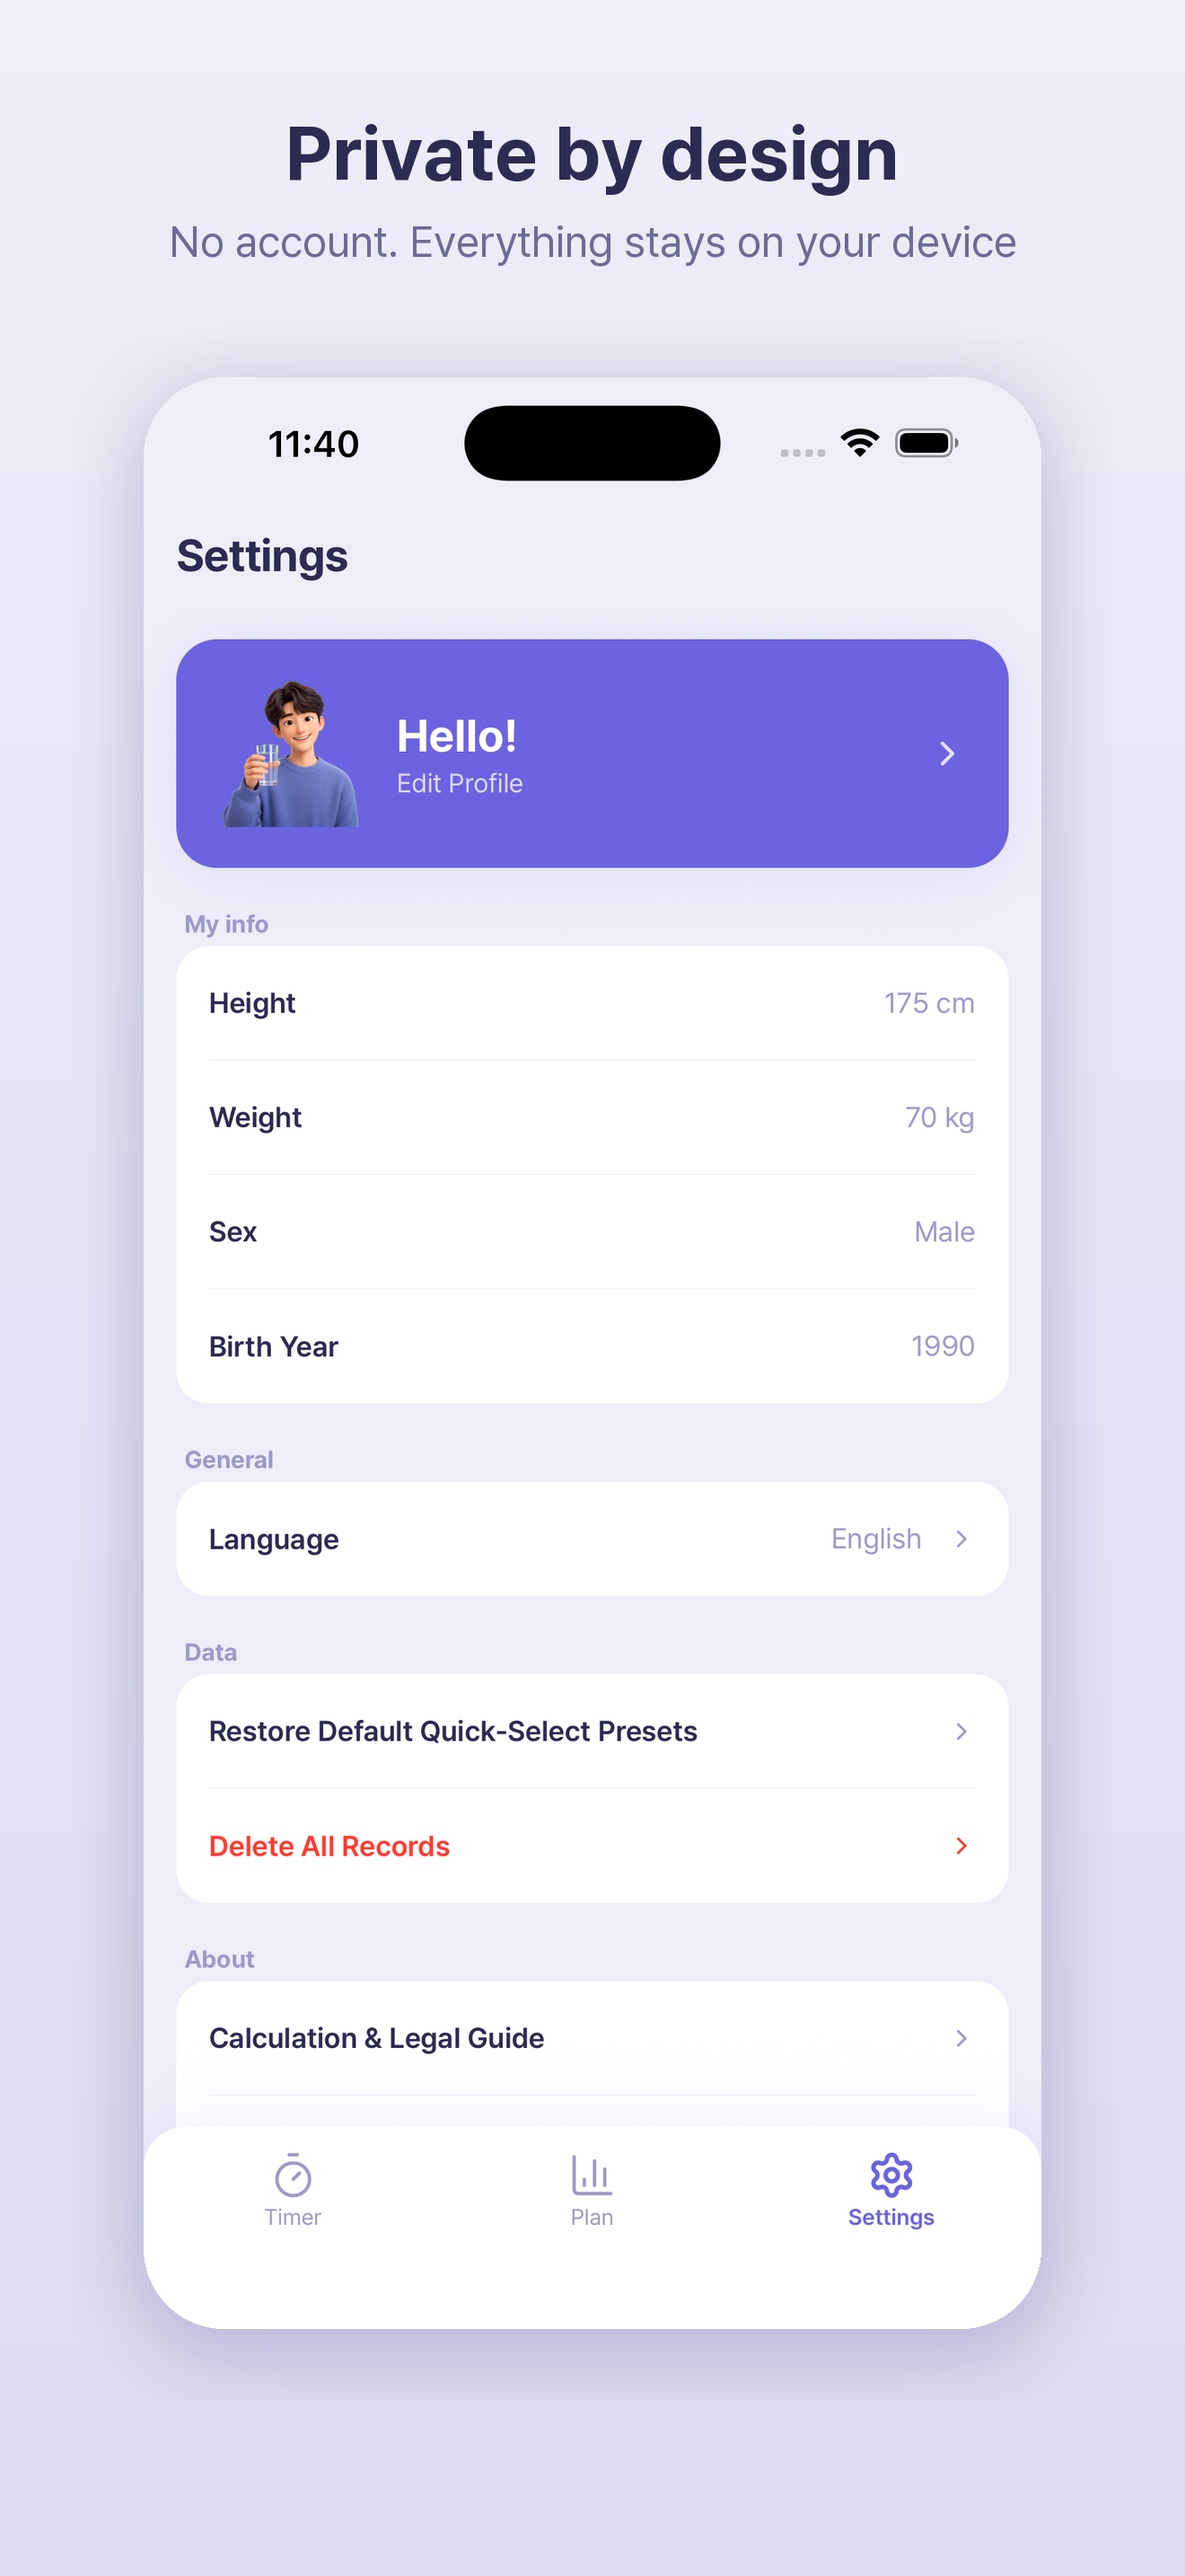
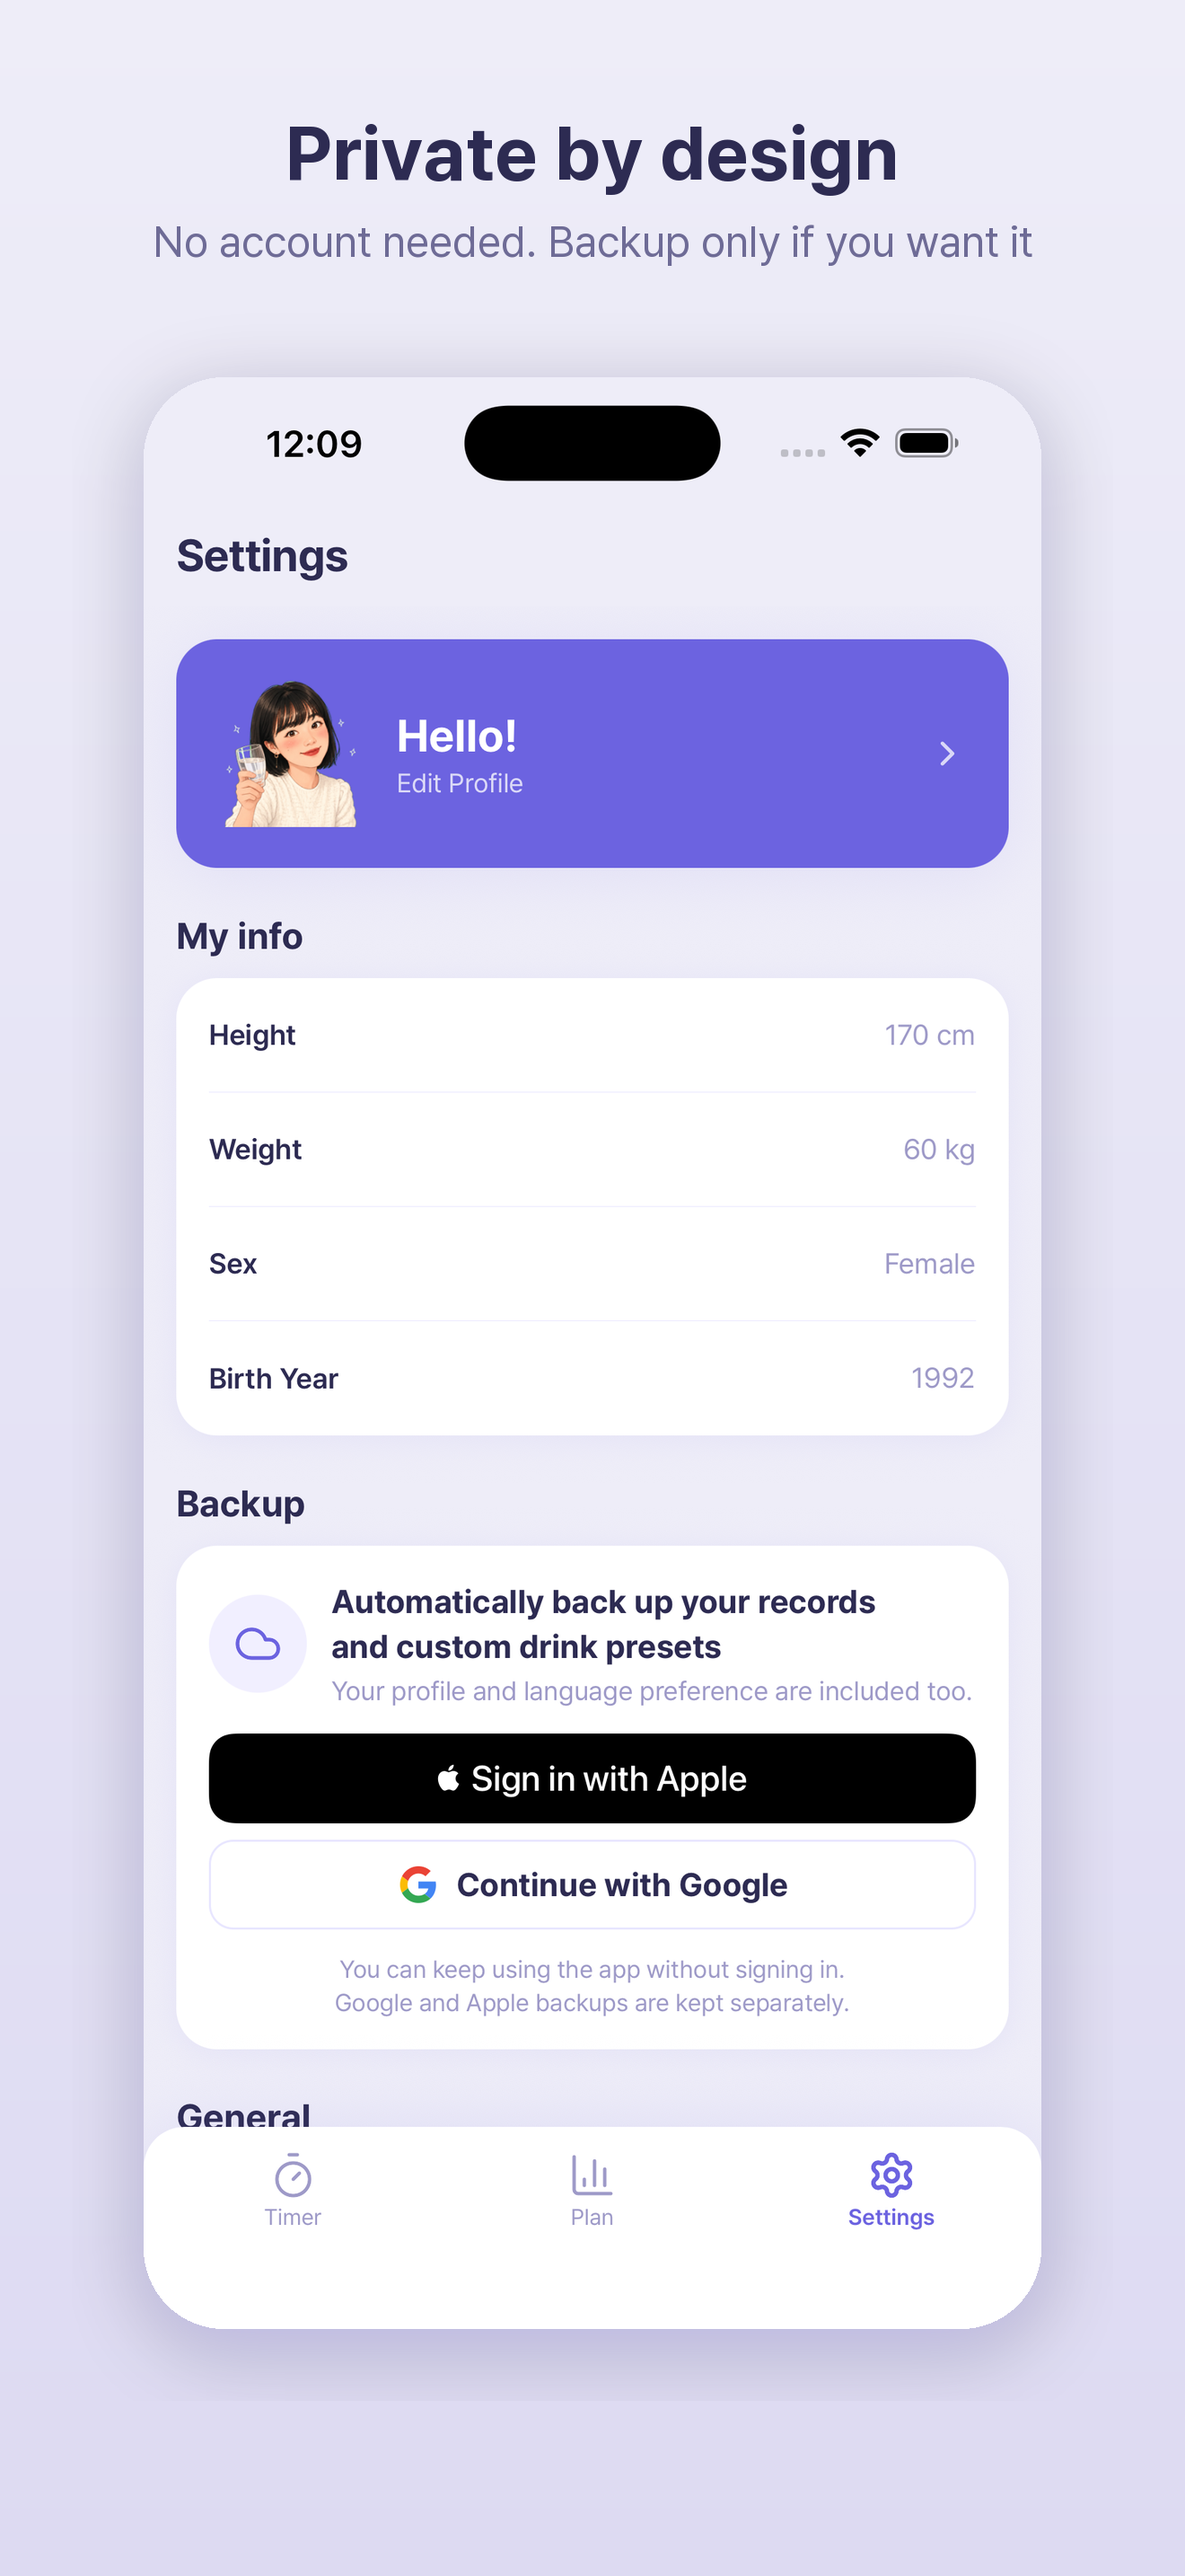
App Store 스크린샷 1.3.0 — iPad 13인치 세트 추가(compose ipad13 타깃), 설정 화면·캡션을 백업 섹션 반영으로 교체

diff --git a/store/compose_screenshots_ios.py b/store/compose_screenshots_ios.py
@@ -1,11 +1,13 @@
 #!/usr/bin/env python3
-"""App Store 스크린샷 합성 — 헤드라인 + 서브 + 둥근 기기 프레임 (6.9인치, 1320×2868).
+"""App Store 스크린샷 합성 — 헤드라인 + 서브 + 둥근 기기 프레임 (6.9인치 1320×2868 / iPad 13인치 2064×2752).
 
 사용법:
-  python3 store/compose_screenshots_ios.py ko   # store/raw/ios/ko/NN-*.png → store/screenshots/ios/ko/
+  python3 store/compose_screenshots_ios.py ko          # store/raw/ios/ko/NN-*.png → store/screenshots/ios/ko/
   python3 store/compose_screenshots_ios.py en
+  python3 store/compose_screenshots_ios.py ko ipad13   # store/raw/ios/ipad13/ → store/screenshots/ios/ipad13/ (ko 캡션)
 
-원본 캡처는 iPhone 17 Pro Max 시뮬레이터(1320×2868, `xcrun simctl io <udid> screenshot`).
+원본 캡처는 iPhone 17 Pro Max 시뮬레이터(1320×2868, `xcrun simctl io <udid> screenshot`),
+iPad 는 iPad Pro 13-inch 시뮬레이터(2064×2752). iPad 원본 폴더는 언어와 무관하게 `raw/ios/ipad13/` 하나다.
 Play 판(`compose_screenshots.py`)과 같은 스타일이고 크기·캡션(05 = Live Activity)만 다르다.
 캡처는 Metro 를 `EXPO_PUBLIC_HIDE_ADS=1` 로 띄워 배너 없이 찍는다(디버그 빌드는 테스트 광고가 뜬다).
 """
@@ -17,12 +19,14 @@ from PIL import Image, ImageDraw, ImageFilter, ImageFont
 
 ROOT = os.path.dirname(os.path.abspath(__file__))
 FONT_DIR = os.path.join(ROOT, '..', 'assets', 'fonts')
-W, H = 1320, 2868
+# 기기별 캔버스: (W, H, FRAME_W, FRAME_Y, RADIUS, 헤드라인 크기, 서브 크기)
+DEVICES = {
+    'iphone': (1320, 2868, 1000, 420, 90, 84, 48),
+    'ipad13': (2064, 2752, 1560, 480, 60, 110, 60),
+}
+W, H, FRAME_W, FRAME_Y, RADIUS, HEAD_PT, SUB_PT = DEVICES['iphone']
 NAVY = (45, 43, 82)
 SUB = (110, 107, 150)
-FRAME_W = 1000            # 기기 프레임 폭
-FRAME_Y = 420
-RADIUS = 90               # iPhone 화면 모서리 (1320 폭 기준)
 HOME_BAR_PX = 0           # iOS 는 홈 인디케이터를 잘라내지 않는다 (배경과 어우러짐)
 
 CAPTIONS = {
@@ -32,7 +36,7 @@ CAPTIONS = {
         '03': ('한 번의 탭으로 기록', '맥주·소주·와인·하이볼, 그리고 나만의 술'),
         '04': ('지난 술자리 다시 보기', '최고 농도·총 섭취량·그래프까지'),
         '05': ('앱을 켜지 않아도', '잠금화면과 다이내믹 아일랜드에서 카운트다운'),
-        '06': ('개인정보를 수집하지 않습니다', '회원가입 없음, 기록은 기기 안에만'),
+        '06': ('개인정보를 수집하지 않습니다', '회원가입 없이 사용, 백업은 원할 때만'),
     },
     'en': {
         '01': ("Time until you're sober", 'Calculated for your height, weight and sex'),
@@ -40,7 +44,7 @@ CAPTIONS = {
         '03': ('Log a drink in one tap', 'Beer, wine, whisky, cocktails — or your own'),
         '04': ('Look back on past nights', 'Peak BAC, total alcohol and the graph'),
         '05': ('Counts down with the app closed', 'On your Lock Screen and Dynamic Island'),
-        '06': ('Private by design', 'No account. Everything stays on your device'),
+        '06': ('Private by design', 'No account needed. Backup only if you want it'),
     },
 }
 
@@ -84,21 +88,25 @@ def compose(raw_path, headline, sub, out_path):
     mask = rounded(shot, round(RADIUS * FRAME_W / W * 1.3))
     canvas = background()
     d = ImageDraw.Draw(canvas)
-    hf = font('Pretendard-Bold.ttf', 84)
-    sf = font('Pretendard-Regular.ttf', 48)
+    hf = font('Pretendard-Bold.ttf', HEAD_PT)
+    sf = font('Pretendard-Regular.ttf', SUB_PT)
     hw = d.textlength(headline, font=hf)
-    d.text(((W - hw) / 2, 120), headline, font=hf, fill=NAVY)
+    d.text(((W - hw) / 2, FRAME_Y * 120 // 420), headline, font=hf, fill=NAVY)
     sw = d.textlength(sub, font=sf)
-    d.text(((W - sw) / 2, 240), sub, font=sf, fill=SUB)
+    d.text(((W - sw) / 2, FRAME_Y * 240 // 420), sub, font=sf, fill=SUB)
     paste_with_shadow(canvas, shot, mask, (W - FRAME_W) // 2, FRAME_Y)
     canvas.save(out_path, optimize=True)
     print(out_path)
 
 
 def main():
+    global W, H, FRAME_W, FRAME_Y, RADIUS, HEAD_PT, SUB_PT
     lang = sys.argv[1] if len(sys.argv) > 1 else 'ko'
-    raw_dir = os.path.join(ROOT, 'raw', 'ios', lang)
-    out_dir = os.path.join(ROOT, 'screenshots', 'ios', lang)
+    device = sys.argv[2] if len(sys.argv) > 2 else 'iphone'
+    W, H, FRAME_W, FRAME_Y, RADIUS, HEAD_PT, SUB_PT = DEVICES[device]
+    sub_dir = lang if device == 'iphone' else device
+    raw_dir = os.path.join(ROOT, 'raw', 'ios', sub_dir)
+    out_dir = os.path.join(ROOT, 'screenshots', 'ios', sub_dir)
     os.makedirs(out_dir, exist_ok=True)
     for raw in sorted(glob.glob(os.path.join(raw_dir, '*.png'))):
         num = os.path.basename(raw)[:2]

diff --git a/store/appstore-listing.md b/store/appstore-listing.md
@@ -227,6 +227,8 @@ How to test: complete onboarding (any height/weight/sex), tap + to add a drink (
 3. 등록정보 입력(en 기본 → ko 현지화), 스크린샷 6.9인치 업로드, 앱 개인정보 "수집 안 함", 연령 등급, 심사 노트 — **aside 완료 2026-09-17.**
    - 연령 등급 결과: **18+**(173개국), **대한민국 19+**, iOS 26 이전 OS 17+. 라이프스타일 카테고리 + 주류로 리비아·모로코·몰디브·사우디·UAE 등 일부 국가는 판매 불가(Apple 정책).
    - 6.9인치 스크린샷은 버전 페이지가 아니라 **미디어 관리**에서 올린다(일괄 업로드는 순서가 섞여 한 장씩). 6.5인치 슬롯은 6.9 를 그대로 쓴다.
+   - **iPad 13인치(2064×2752) 스크린샷은 1.3.0 부터 필수**(supportsTablet). 원본은 iPad Pro 13-inch 시뮬레이터에서 `xcrun simctl io <udid> screenshot` 으로 `store/raw/ios/ipad13/`(ko 5장: 01·02·03·04·06, Live Activity 는 iPad 에 없어 05 없음) → `python3 store/compose_screenshots_ios.py ko ipad13` → `store/screenshots/ios/ipad13/`. 영어 현지화에는 iPad 스크린샷을 따로 올리지 않는다(없으면 기본 언어 것이 보인다).
+   - 06 설정 스크린샷은 1.3.0 백업 섹션(Apple/Google 버튼)이 보이는 것으로 교체했고 캡션도 "회원가입 없이 사용, 백업은 원할 때만" 으로 바꿨다. Apple 버튼 문구는 **시뮬레이터 시스템 언어**를 따르므로 ko 캡처 전에 `simctl spawn <udid> defaults write .GlobalPreferences AppleLanguages -array ko` 후 재부팅.
    - 심사 연락처 전화번호가 필수라 Apple 개발자 계정의 회사 번호(+82 2 6951 5406)를 넣었다 — 바꾸려면 앱 심사 정보에서 수정.
    - 개인정보처리방침 URL 은 앱 정보가 아니라 "앱이 수집하는 개인정보" 섹션에 있다(EN·KO 둘 다 설정).
    - 가격 무료·175개국. Mac(Apple Silicon)·Vision Pro 사용 가능 체크는 해제(iPhone 전용, Live Activity 의존).
